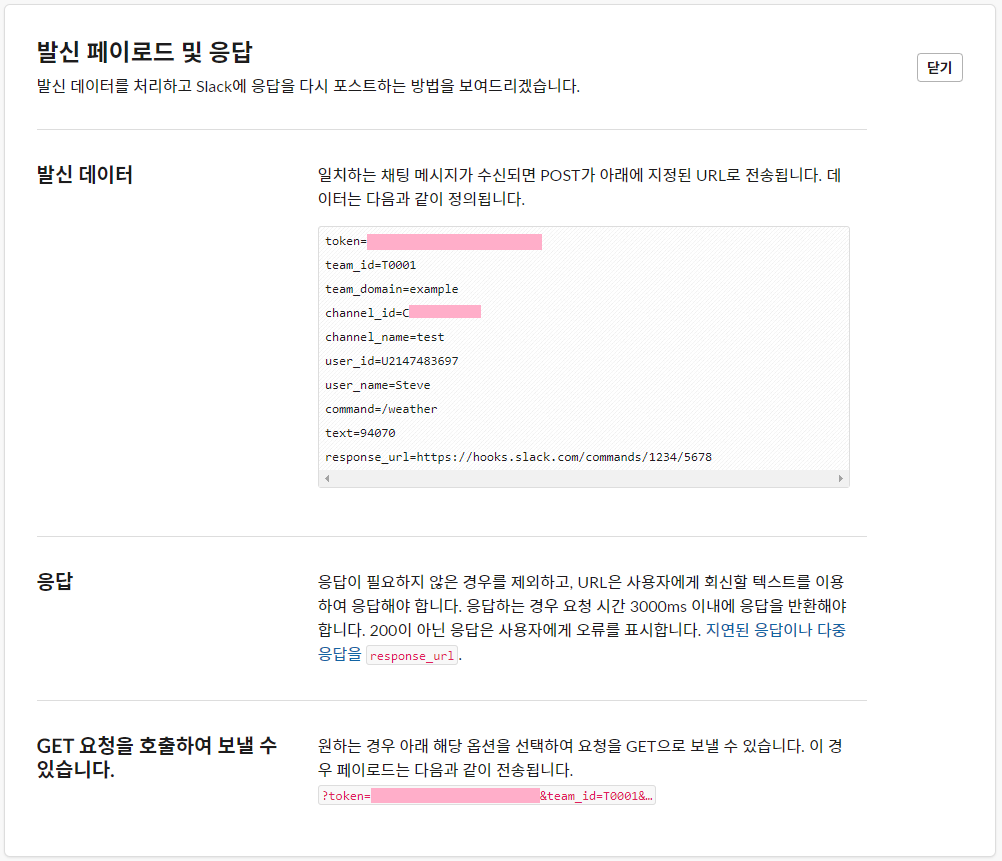
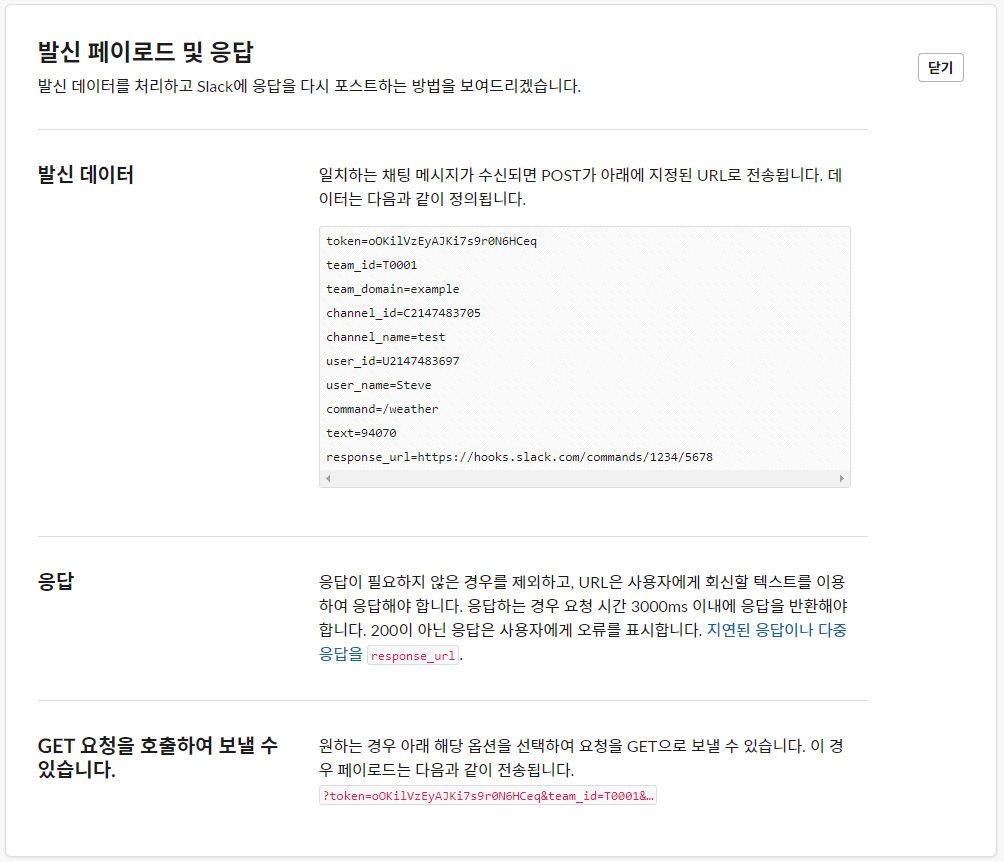
:page_facing_up: Update [Slack] Slash Commands 슬래시 커맨드 만들기

diff --git a/_posts/slack/2022-09-26-slash-commands.md b/_posts/slack/2022-09-26-slash-commands.md
@@ -17,18 +17,35 @@ sidebar :
 아래의 yourTeam 부분에 본인의 워크스페이스 URL을 입력하면 슬래시 커맨드 생성 페이지로 바로 이동할 수 있다.
 - Ex) https://**yourTeam**.slack.com/apps/build/custom-integration
 - Ex) https://seoyuhui.slack.com/apps/build/custom-integration
-  - Slash Commands를 클릭한다.
   ![images](/images/2022-09-26-slash-commands/slash-commands1.png)
+  - Slash Commands를 클릭한다.
 
 2. 사용할 명령어를 입력한다.
 ![images](/images/2022-09-26-slash-commands/slash-commands2.png)
+- 명령어 입력 후 **슬래시 명령어 통합 추가**를 클릭
 
 3. 발신 페이로드 및 응답
 ![images](/images/2022-09-26-slash-commands/slash-commands3.png)
+- 발신 데이터
+```
+token=oOKilVzEyAJKi7s9r0N6HCeq
+team_id=T0001
+team_domain=example
+channel_id=C2147483705
+channel_name=test
+user_id=U2147483697
+user_name=Steve
+command=/weather
+text=94070
+response_url=https://hooks.slack.com/commands/1234/5678
+```
 
 4. Request URL 입력
 - 명령어를 처리 받아서 응답값을 줄 수 있는 API 및 서버가 있다면 Request URL에 해당 값 입력
 - 없다면 일단 로컬주소`http://localhost`를 등록하여 슬래시 커맨드를 추가한다. 
 
-5. Slack에서 `/`를 입력하여 테스트  
-  ![images](/images/2022-09-26-slash-commands/slash-commands4.png)
+5. Slack에서 명령어를 입력하여 테스트
+- 위에서 설정한 명령어를 입력  
+  ![images](/images/2022-09-26-slash-commands/slash-commands11.png)
+- Slash Commands 수신 확인  
+  ![images](/images/2022-09-26-slash-commands/slash-commands12.png)
